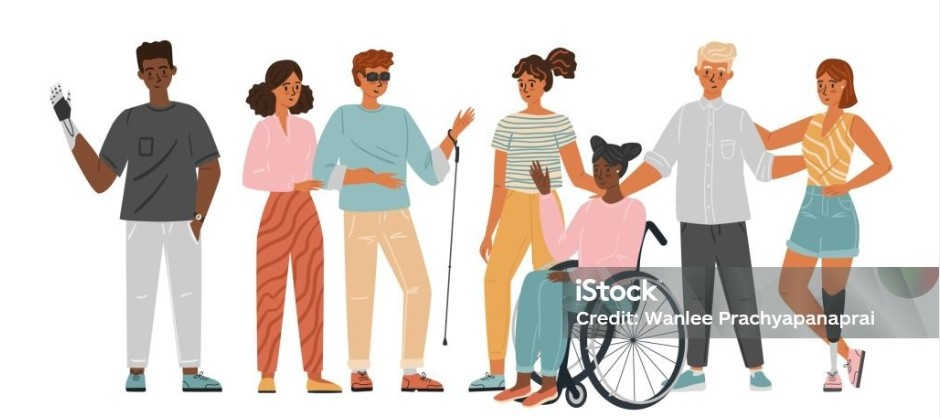
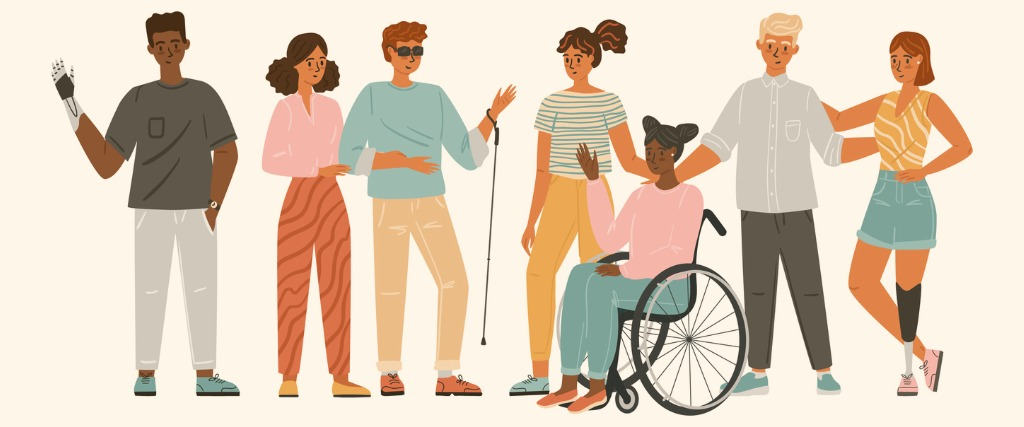
Add original hero photo, update content

diff --git a/src/pages/Posts/UnderstandingA11y/WhatIsA11y.tsx b/src/pages/Posts/UnderstandingA11y/WhatIsA11y.tsx
@@ -69,7 +69,8 @@ export default function WhatIsA11y() {
                         Becoming a web developer comes with a cool superpower: to create sites and apps
                         that <span className="yellow-bg">everyone</span>,
                         including people with disabilities, can easily navigate. 
-                        
+                    </p>
+                    <p>
                         When you put this superpower to use, you make accessibility happen.
                         All visitors, regardless of how they access your finished product, will be able to navigate 
                         it and understand it.
@@ -304,7 +305,7 @@ export default function WhatIsA11y() {
                     <p>
                         In our world, digital connectivity is key, and your finished product should allow everyone 
                         the ability to easily engage with it.  The web is not just a form of entertainment; it's a
-                        source of information and services that are integral to our daily life.
+                        source of information and services that are part of our daily life.
                     </p>
                     <p>
                         When was the last time you booked a flight with a travel agency? Or mailed a check to pay 
@@ -312,8 +313,7 @@ export default function WhatIsA11y() {
                     </p>
                     <p> 
                         This shift to digital has been transformative for people with disabilities as well. 
-                        For them as well, <strong>access to the web is about quality of life. For them especially, it's also about privacy.
-                        It opens doors to autonomy and ease</strong>, and can remove many of the challenges
+                        For them, access to the web opens doors to autonomy and ease, and can remove many of the challenges
                         associated with their impairments.
                     </p>    
                     <p> 
@@ -372,11 +372,11 @@ export default function WhatIsA11y() {
                         </Link>
                     </p>
 
-                    <p>
+                    {/* <p>
                         When we actively embrace accessibility and make it essential
                         to our web development learning and work, we can make a difference.
                         Let's build a web that's open to <span className="yellow-bg">everyone</span>!
-                    </p>
+                    </p> */}
                     
                 </div>
             </div>

diff --git a/src/pages/Home.tsx b/src/pages/Home.tsx
@@ -25,7 +25,7 @@ export default function Home() {
                             <SvgCard key={index} svg={icon.svg}/>
                         ))}                 
                     </div> */}
-                    <img className="hero-img-desktop" src="/assets/images/peopleCreamBg.jpg" alt=""/>
+                    <img className="hero-img-desktop" src="/assets/images/people.jpg" alt=""/>
                     {/* <img className="hero-img-mobile" src="/assets/images/heroYellowImage-mobile.jpg" alt=""/> */}
                     
                     {isBetaOpen &&

diff --git a/src/pages/Posts/UnderstandingA11y/HowA11yWorks.module.css b/src/pages/Posts/UnderstandingA11y/HowA11yWorks.module.css
@@ -16,6 +16,11 @@
     display: flex;
     overflow-x: auto;
     white-space: nowrap;    
+    border-radius: 5px;
+}
+
+.dom-at div:nth-of-type(1) {
+    border-right: 1px solid gray;
 }
 
 .dom-at div:nth-of-type(2){

diff --git a/src/global.css b/src/global.css
@@ -201,7 +201,7 @@ a:focus-visible {
     line-height: 1.5;
     padding: 30px;
     background-color: var(--code-bg-color);
-    border-radius: 5px;
+    /* border-radius: 5px; */
     color: var(--cream-color);
 }
 
